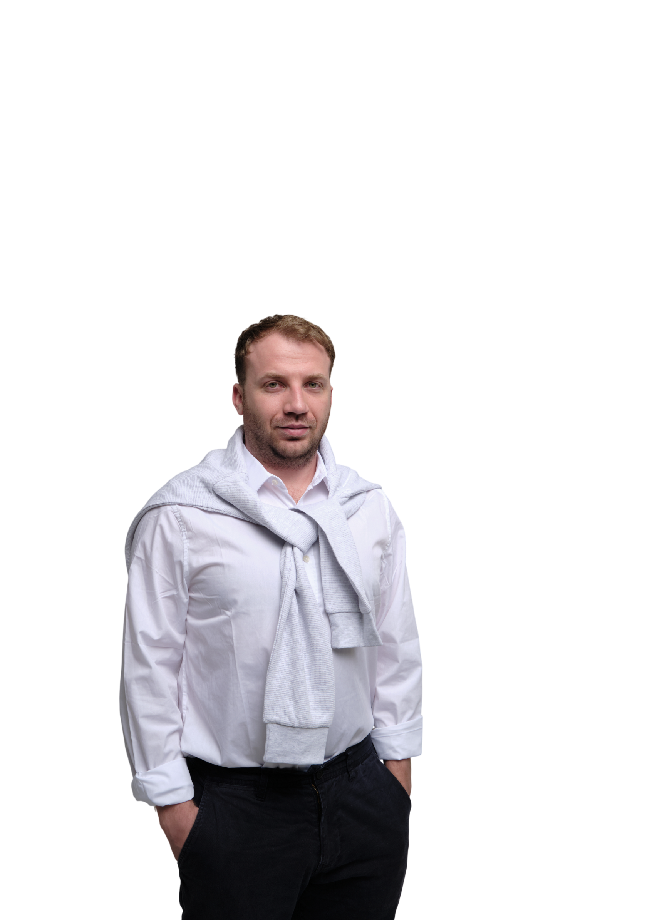
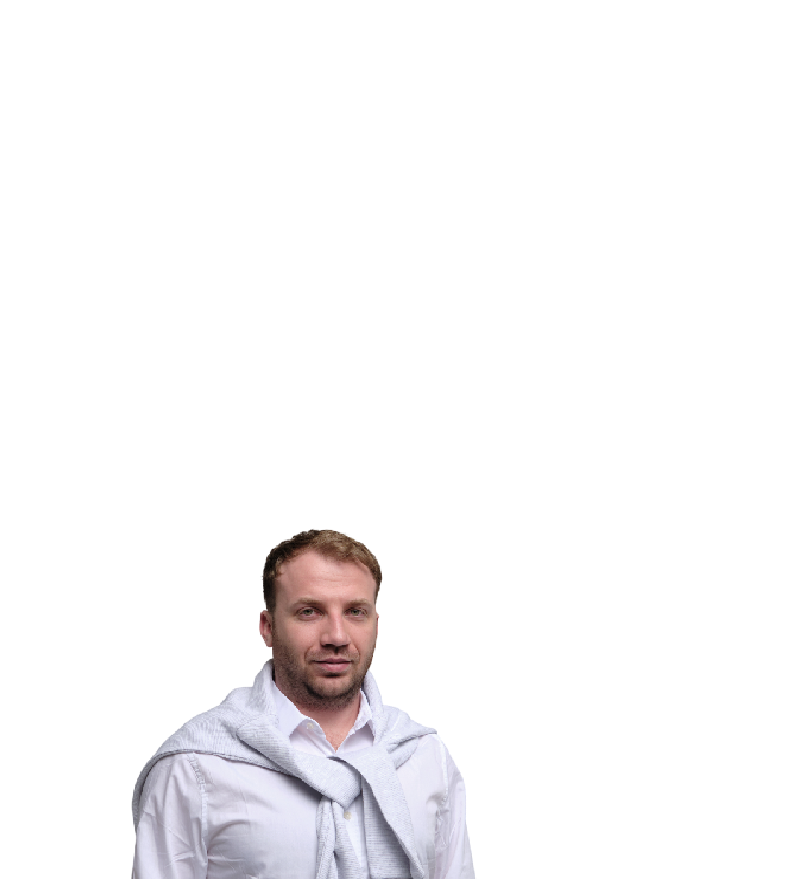
changed photo and small improvments

Changed region(s): [[0.1538, 0.3379, 0.6769, 1.0]]

diff --git a/assets/css/style.css b/assets/css/style.css
@@ -31902,3 +31902,181 @@ section[id] {
             max-width: none;
         }
 }
+
+.year-expariance-wrap-1 .counter {
+    font-size: 100px !important;
+    line-height: 1;
+}
+
+.year-expariance-wrap-1 .counter .odometer {
+    font-size: inherit;
+}
+
+.year-expariance-wrap-1 .para {
+    font-size: 28px !important;
+}
+
+.bg-benner-img-four {
+    position: absolute !important;
+    right: 150px !important;      /* вправо */
+    bottom: 0 !important;         /* прижать к низу */
+    top: auto !important;
+    z-index: 2 !important;
+}
+
+.bg-benner-img-four img {
+    width: 650px !important;      /* размер фото */
+    max-width: none !important;
+    display: block;
+}
+
+
+@media (max-width: 767px) {
+    .rpp-banner-four-area {
+        padding-top: 90px !important;
+        overflow: hidden !important;
+    }
+
+    .banner-four-main-wrapper {
+        padding: 30px 0 0 !important;
+        height: auto !important;
+        top: 0 !important;
+    }
+
+    .banner-four-main-wrapper .row {
+        position: relative !important;
+        z-index: 5 !important;
+    }
+
+    .bg-benner-img-four {
+        position: relative !important;
+        right: auto !important;
+        bottom: auto !important;
+        top: auto !important;
+        transform: none !important;
+        width: 100% !important;
+        margin-top: 25px !important;
+        text-align: center !important;
+        z-index: 1 !important;
+    }
+
+    .bg-benner-img-four img {
+        width: 360px !important;
+        max-width: 120% !important;
+        transform: translateX(-45px) !important;
+    }
+
+    .banner-four-right-bg-img {
+        right: -80px !important;
+        top: 40px !important;
+        opacity: 0.7 !important;
+    }
+
+    .banner-four-main-wrapper .inner {
+        position: relative !important;
+        z-index: 10 !important;
+    }
+
+    .banner-four-main-wrapper .title {
+        font-size: 42px !important;
+        line-height: 1 !important;
+    }
+
+    .banner-four-main-wrapper .sub-title {
+        font-size: 25px !important;
+        line-height: 1.2 !important;
+    }
+
+    .banner-four-main-wrapper .description {
+        font-size: 15px !important;
+        line-height: 1.5 !important;
+        max-width: 330px !important;
+    }
+
+    .banner-right-content {
+        margin-top: 30px !important;
+    }
+}
+
+
+
+@media (max-width: 767px) {
+
+    .bg-benner-img-four {
+        position: relative !important;
+        width: 100% !important;
+        text-align: center !important;
+        margin: 20px auto 30px !important;
+        right: 0 !important;
+        left: 0 !important;
+        transform: none !important;
+    }
+
+    .bg-benner-img-four img {
+        display: block !important;
+        width: 340px !important;      /* было ~280 */
+        max-width: 95% !important;
+        margin: 0 auto !important;
+    }
+
+    .banner-four-main-wrapper .inner {
+        text-align: center !important;
+        margin-top: 15px !important;
+    }
+
+    .banner-four-main-wrapper .title {
+        font-size: 54px !important;
+    }
+
+    .banner-four-main-wrapper .sub-title {
+        font-size: 30px !important;
+    }
+}
+
+@media (max-width: 767px) {
+    .bg-benner-img-four img {
+        width: 330px !important;
+        max-width: 96% !important;
+        margin: 0 auto !important;
+    }
+
+    .bg-benner-img-four {
+        margin: 30px auto 25px !important;
+        text-align: center !important;
+    }
+
+    .banner-four-main-wrapper .inner {
+        text-align: center !important;
+        max-width: 360px !important;
+        margin: 0 auto !important;
+    }
+}
+
+@media (max-width: 767px) {
+
+    .bg-benner-img-four {
+        position: relative !important;
+        width: 100% !important;
+        display: flex !important;
+        justify-content: center !important;
+        align-items: center !important;
+        margin: 25px 0 20px !important;
+
+        left: 0 !important;
+        right: 0 !important;
+        top: auto !important;
+        bottom: auto !important;
+        transform: none !important;
+    }
+
+    .bg-benner-img-four img {
+        width: 360px !important;
+        max-width: 100% !important;
+        height: auto !important;
+
+        display: block !important;
+        margin: 0 auto !important;
+
+        transform: none !important;
+    }
+}

diff --git a/index.html b/index.html
@@ -37,7 +37,6 @@
                                 <li><a href="#">Home</a></li>
                                 <li><a href="#about">About</a></li>
                                 <li><a href="#expertise">Expertise</a></li>
-                                <li><a href="#projects">Projects</a></li>
                                 <li><a href="#contact">Contact</a></li>
                             </ul>
 
@@ -101,7 +100,7 @@
         <div class="container">
             <div class="banner-four-main-wrapper">
                 <div class="bg-benner-img-four">
-                    <img class="tmp-scroll-trigger tmp-zoom-in animation-order-1" src="assets/images/banner/artem.png" alt="banner-img-3">
+                    <img class="tmp-scroll-trigger tmp-zoom-in animation-order-1" src="assets/images/banner/artem1.png" alt="banner-img-3">
                 </div>
                 <div class="banner-four-right-bg-img">
                     <img src="assets/images/banner/banner-four-right-bg-img.png" alt="banner-img-3">
@@ -109,7 +108,7 @@
                 <div class="row">
                     <div class="col-lg-4 col-md-6">
                         <div class="inner">
-                            <span class="sub-title tmp-scroll-trigger tmp-fade-in animation-order-1">.NET & Azure Backend Engineer</span>
+                            <span class="sub-title tmp-scroll-trigger tmp-fade-in animation-order-1">Senior .NET Backend Engineer</span>
                             <h1 class="title tmp-scroll-trigger tmp-fade-in animation-order-2">Artem</h1>
                             <p class="description tmp-scroll-trigger tmp-fade-in animation-order-3">
                                 Backend engineer specializing in .NET, Azure, distributed systems, and enterprise messaging.
@@ -138,12 +137,6 @@
                                     <span class="odometer" data-count="7">00</span>
                                 </h3>
                                 <p class="para">Years Of <br>experience </p>
-                            </div>
-                            <div class="find-me-on">
-                                <h2 class="find-me-on-title">Find me on</h2>
-                                <div class="social-link banner">
-                                    <a href="https://www.linkedin.com/in/artem-yaroshenko-65a212194/" target="_blank"><i class="fa-brands fa-linkedin-in"></i></a>
-                               </div>
                             </div>
                         </div>
                     </div>